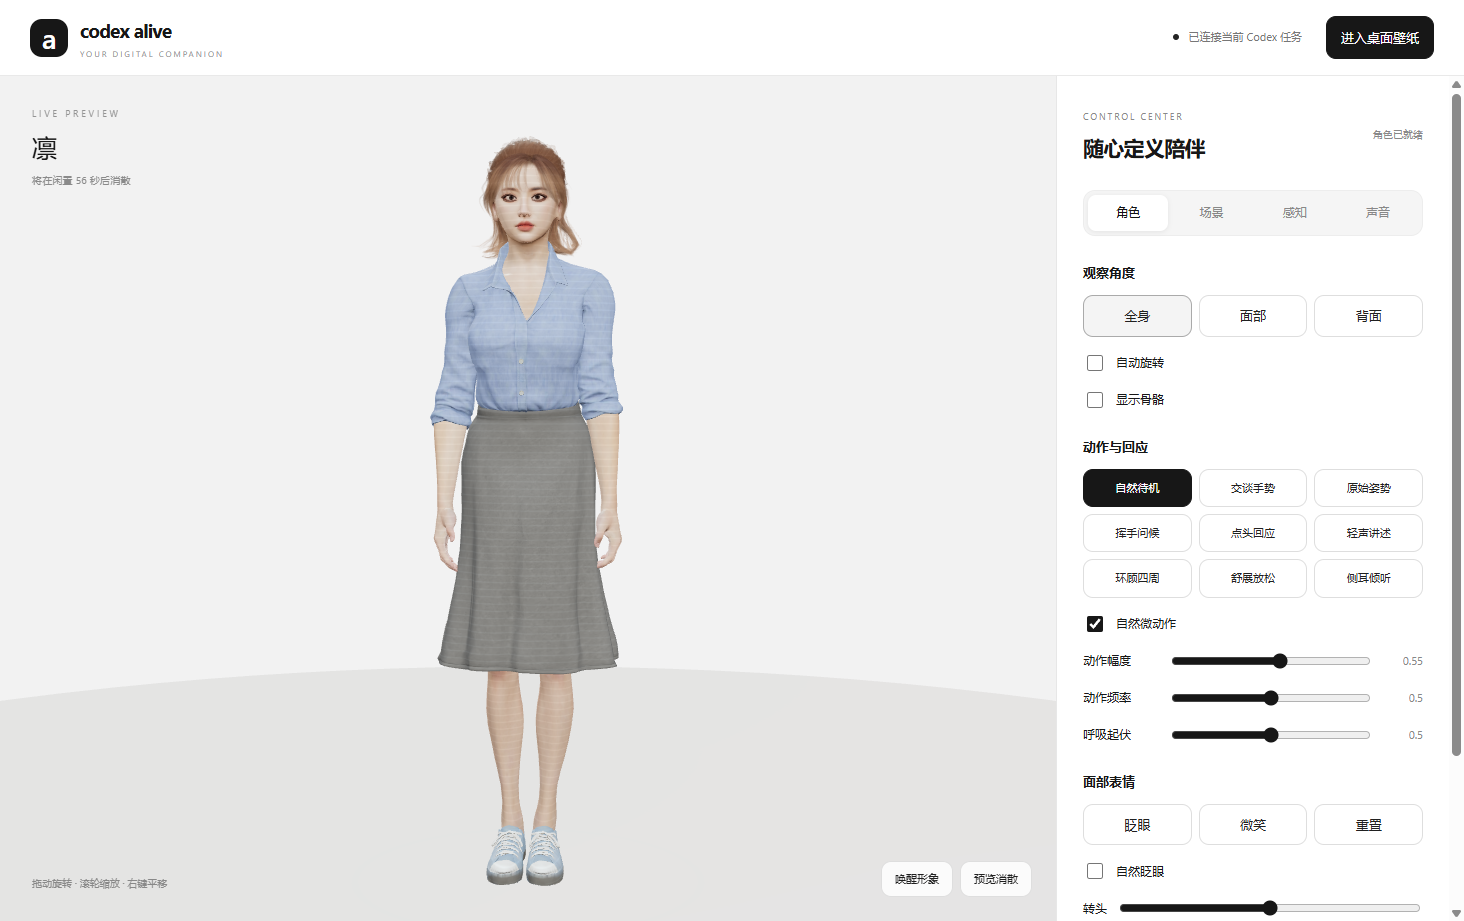
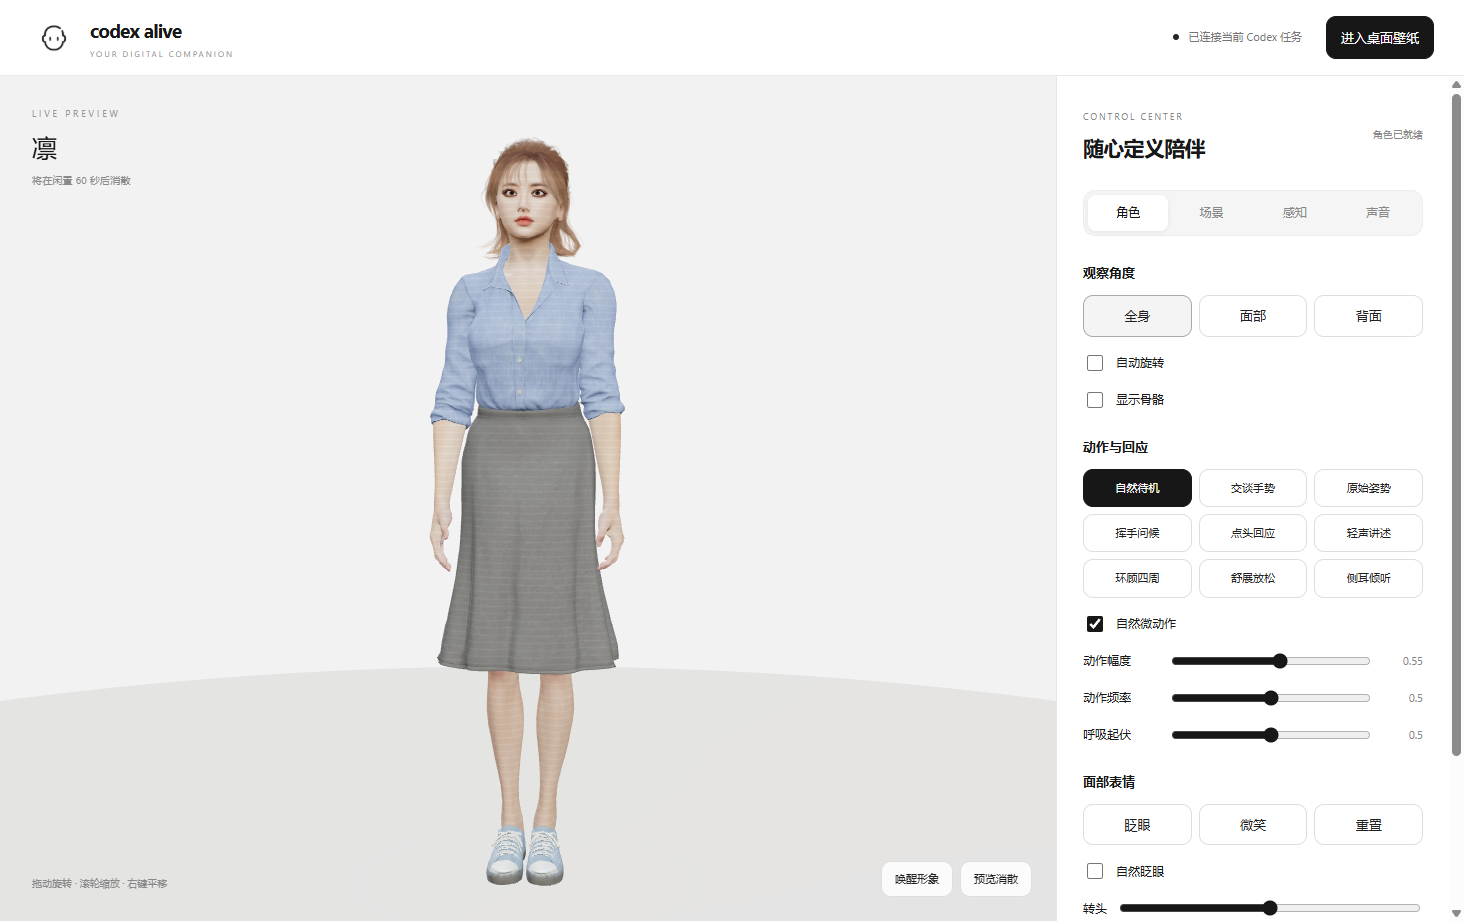
Refresh showcase screenshots from v0.4.1 packaged app

diff --git a/README.md b/README.md
@@ -77,7 +77,7 @@ pnpm run package
 
 ## 界面展示
 
-以下控制中心为 v0.4 实际运行截图，摄像头与麦克风处于关闭状态。
+以下控制中心为 v0.4.1 打包版本的实际运行截图（包含新版 Logo），摄像头与麦克风处于关闭状态。
 
 ### 角色与 Codex 互动
 
@@ -109,11 +109,11 @@ pnpm run package
 
 ### 全息显现
 
-![v0.4 从下向上显现的全息效果](docs/screenshots/07-hologram.png)
+![v0.4.1 从下向上显现的全息效果](docs/screenshots/07-hologram.png)
 
 ### 音色与语音设置
 
-![v0.4 音色、语速、音高和音量设置](docs/screenshots/08-voices.png)
+![v0.4.1 音色、语速、音高和音量设置](docs/screenshots/08-voices.png)
 
 ## 随 Codex 自动启动（Windows）
 
